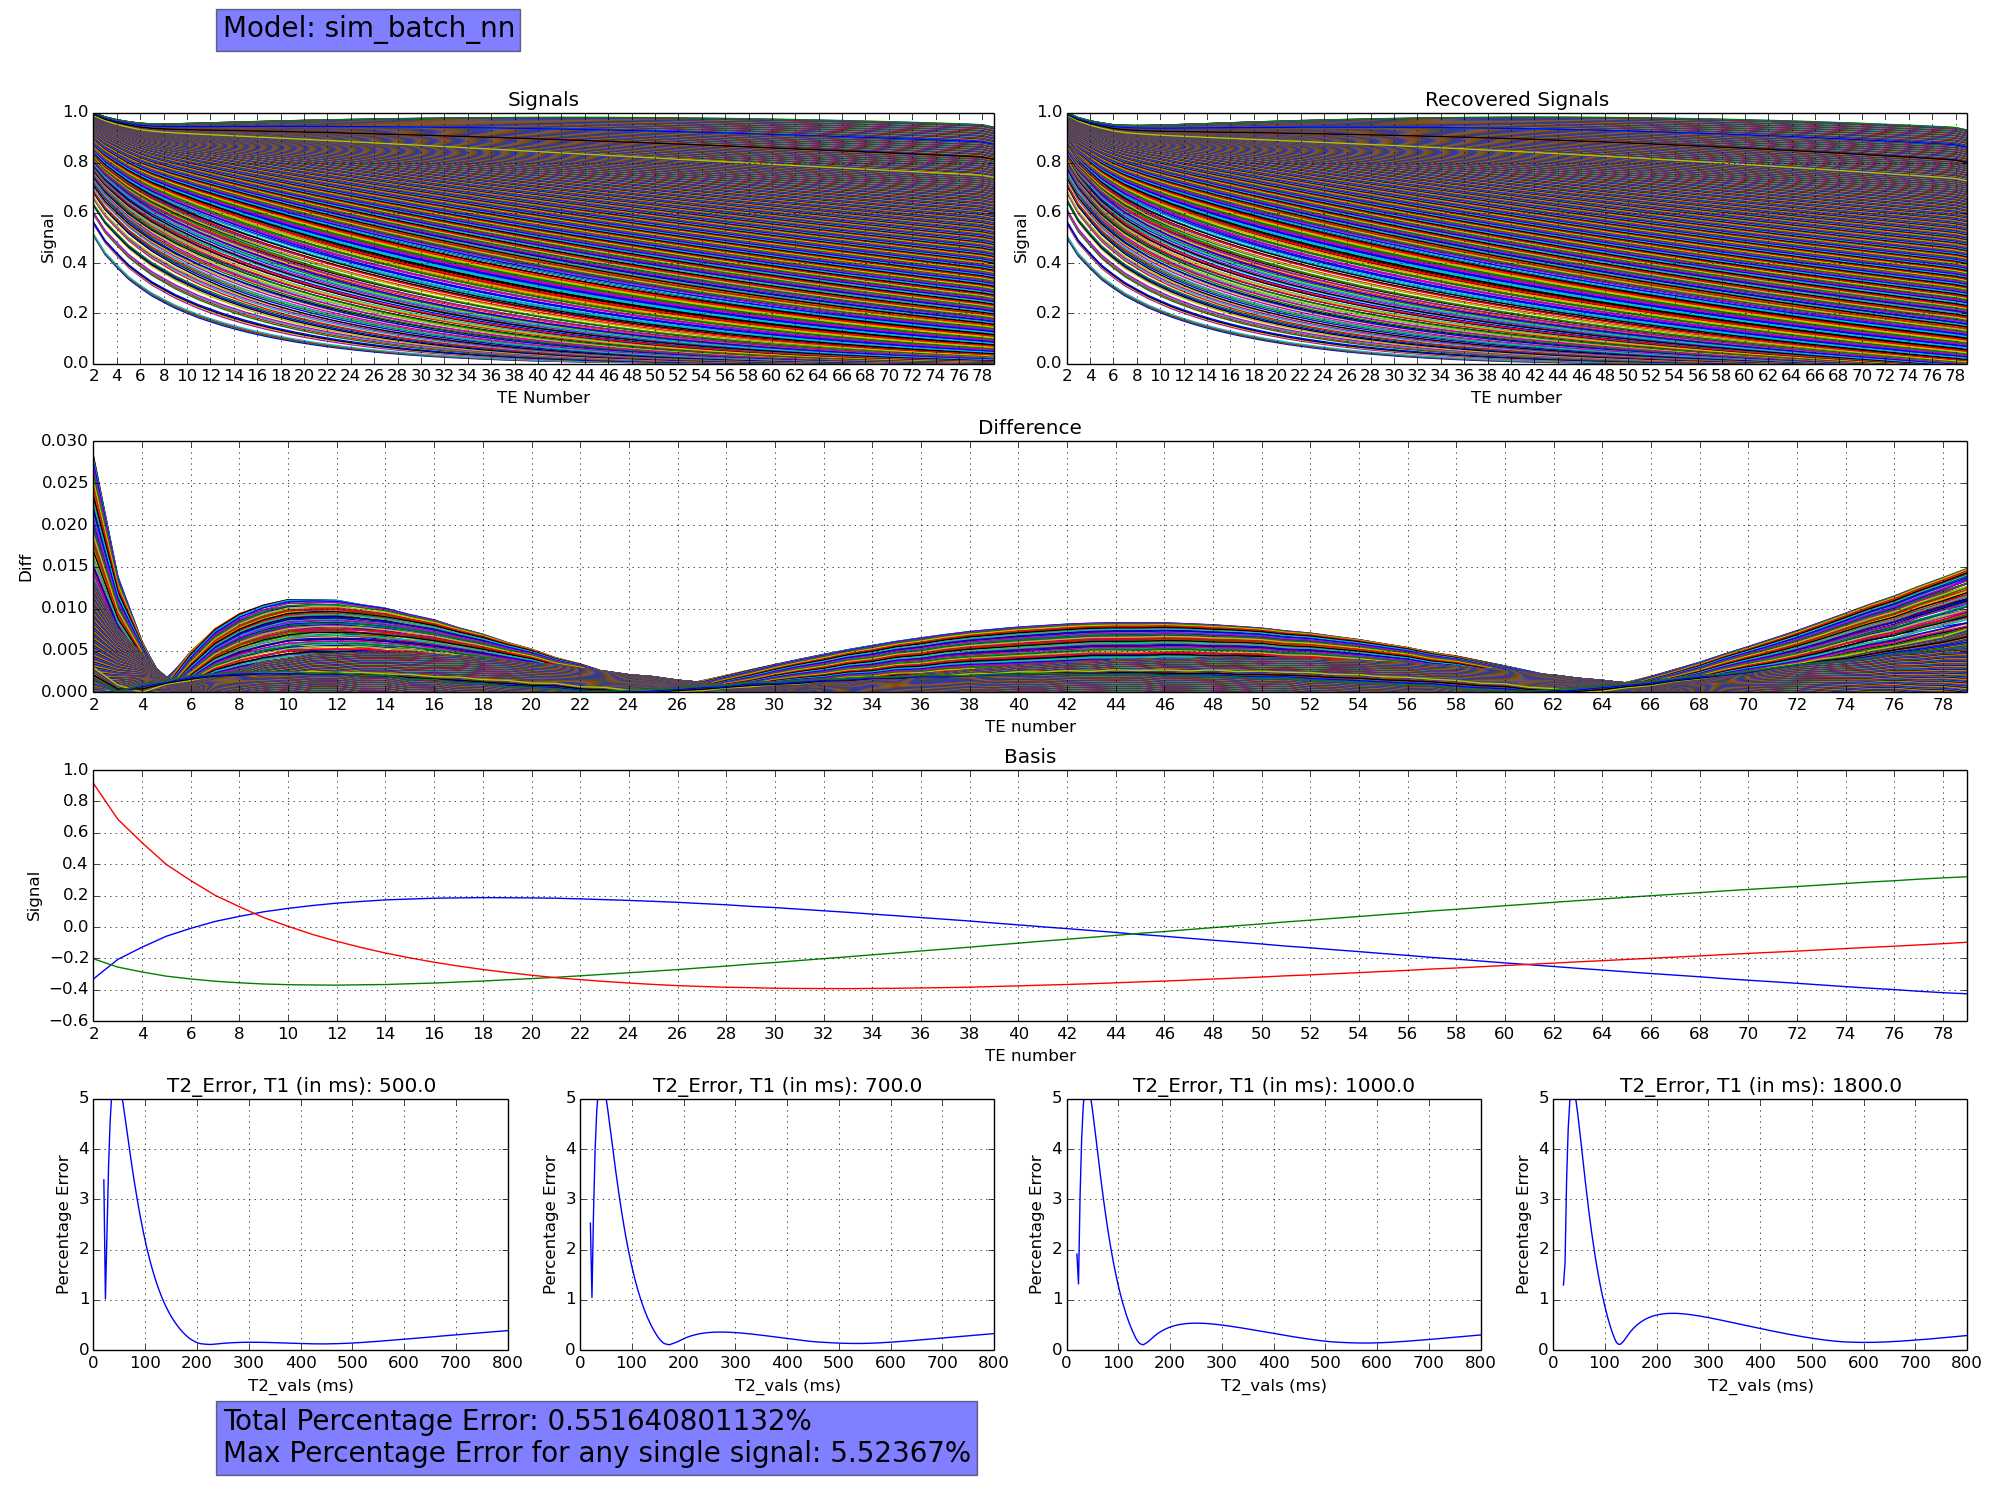
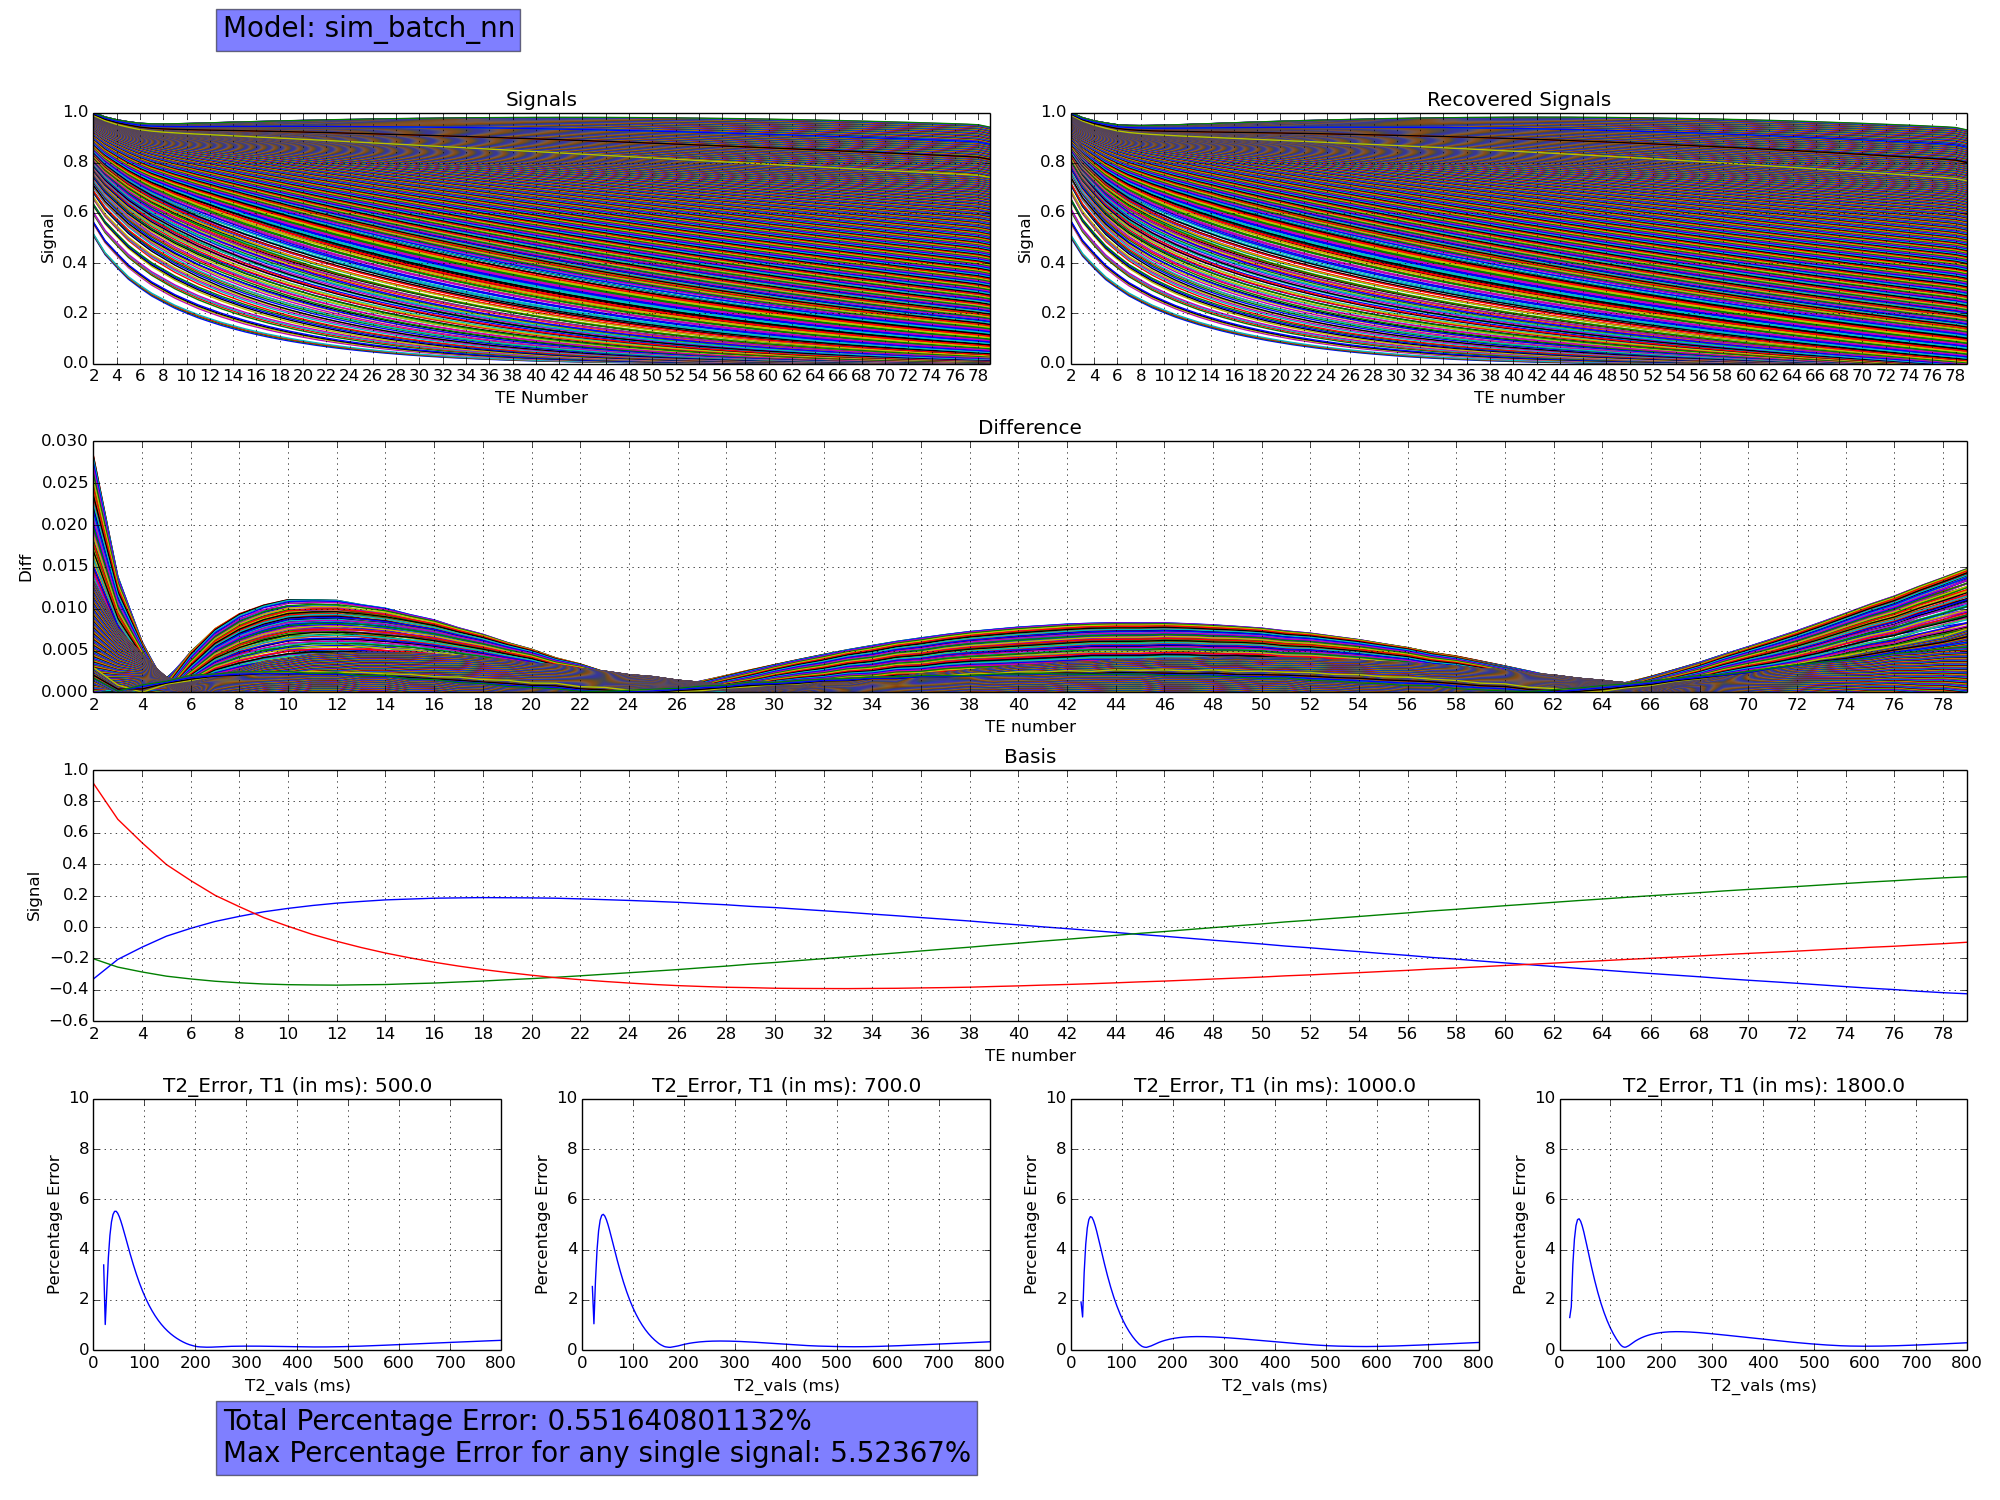
updated plots

diff --git a/src/plot.py b/src/plot.py
@@ -58,7 +58,7 @@ def plot_simulation(U, k, X, X_hat, model_name, T1vals, T2vals, e2s, path):
   mksv_plot(ax2, X_hat/np.max(X_hat), 'Recovered Signals', 'TE number', 'Signal', xstart=e2s, ylim=[0, 1])
   mksv_plot(ax3, abs(X-X_hat), 'Difference', 'TE number', 'Diff', xstart=e2s)
   mksv_plot(ax4, -U[:, :k], 'Basis', 'TE number', 'Signal', xstart=e2s)
-  mksv_plot(ax5, (T2vals * 1000, T1vals * 1000, pnorm), 'T2_Error', 'T2_vals (ms)', 'Percentage Error', other_label="T1 (in ms): ", ylim=[0,5])
+  mksv_plot(ax5, (T2vals * 1000, T1vals * 1000, pnorm), 'T2_Error', 'T2_vals (ms)', 'Percentage Error', other_label="T1 (in ms): ", ylim=[0,10])
   fig.tight_layout()
   plt.subplots_adjust(top=0.925, bottom=0.1)
   fig.text(0.1115, 0.025, "Total Percentage Error: " + str(fro_perc_err) + \
